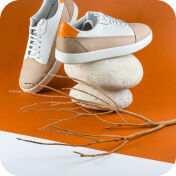
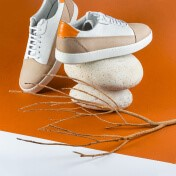
change image-showcase__img border-radius and edit all sneakers images

diff --git a/css/styles.css b/css/styles.css
@@ -396,7 +396,6 @@ select:-webkit-autofill:focus {
   border: 0;
   width: 100%;
   height: 100%;
-  border-radius: 60px;
   background-color: transparent;
   cursor: zoom-in;
 }
@@ -445,8 +444,7 @@ select:-webkit-autofill:focus {
   width: 445px;
   height: 445px;
   object-fit: cover;
-  border-radius: 60px;
-  /* !! (In the design, the large size of the other images was not given, so I was forced to give a large corner-radius.) */
+  border-radius: 15px;
 }
 .image-showcase-lightbox {
   display: flex;
@@ -498,7 +496,7 @@ select:-webkit-autofill:focus {
   border: 0;
   background-color: transparent;
   cursor: pointer;
-  border-radius: 20px;
+  border-radius: 8px;
 }
 .image-showcase__thumbnail-button::after {
   opacity: 0;
@@ -509,7 +507,7 @@ select:-webkit-autofill:focus {
   height: 100%;
   content: "";
   background-color: rgba(255, 255, 255, 255);
-  border-radius: 20px;
+  border-radius: 8px;
 }
 .image-showcase__thumbnail-button:hover::after {
   opacity: 0.5;
@@ -525,7 +523,7 @@ select:-webkit-autofill:focus {
   display: block;
   width: 88px;
   height: 88px;
-  border-radius: 20px;
+  border-radius: 8px;
   object-fit: cover;
 }
 
@@ -905,4 +903,8 @@ select:-webkit-autofill:focus {
     top: 0;
     left: 0;
   }
+}
+
+@media only screen and (max-width: 500px) {
+
 }
